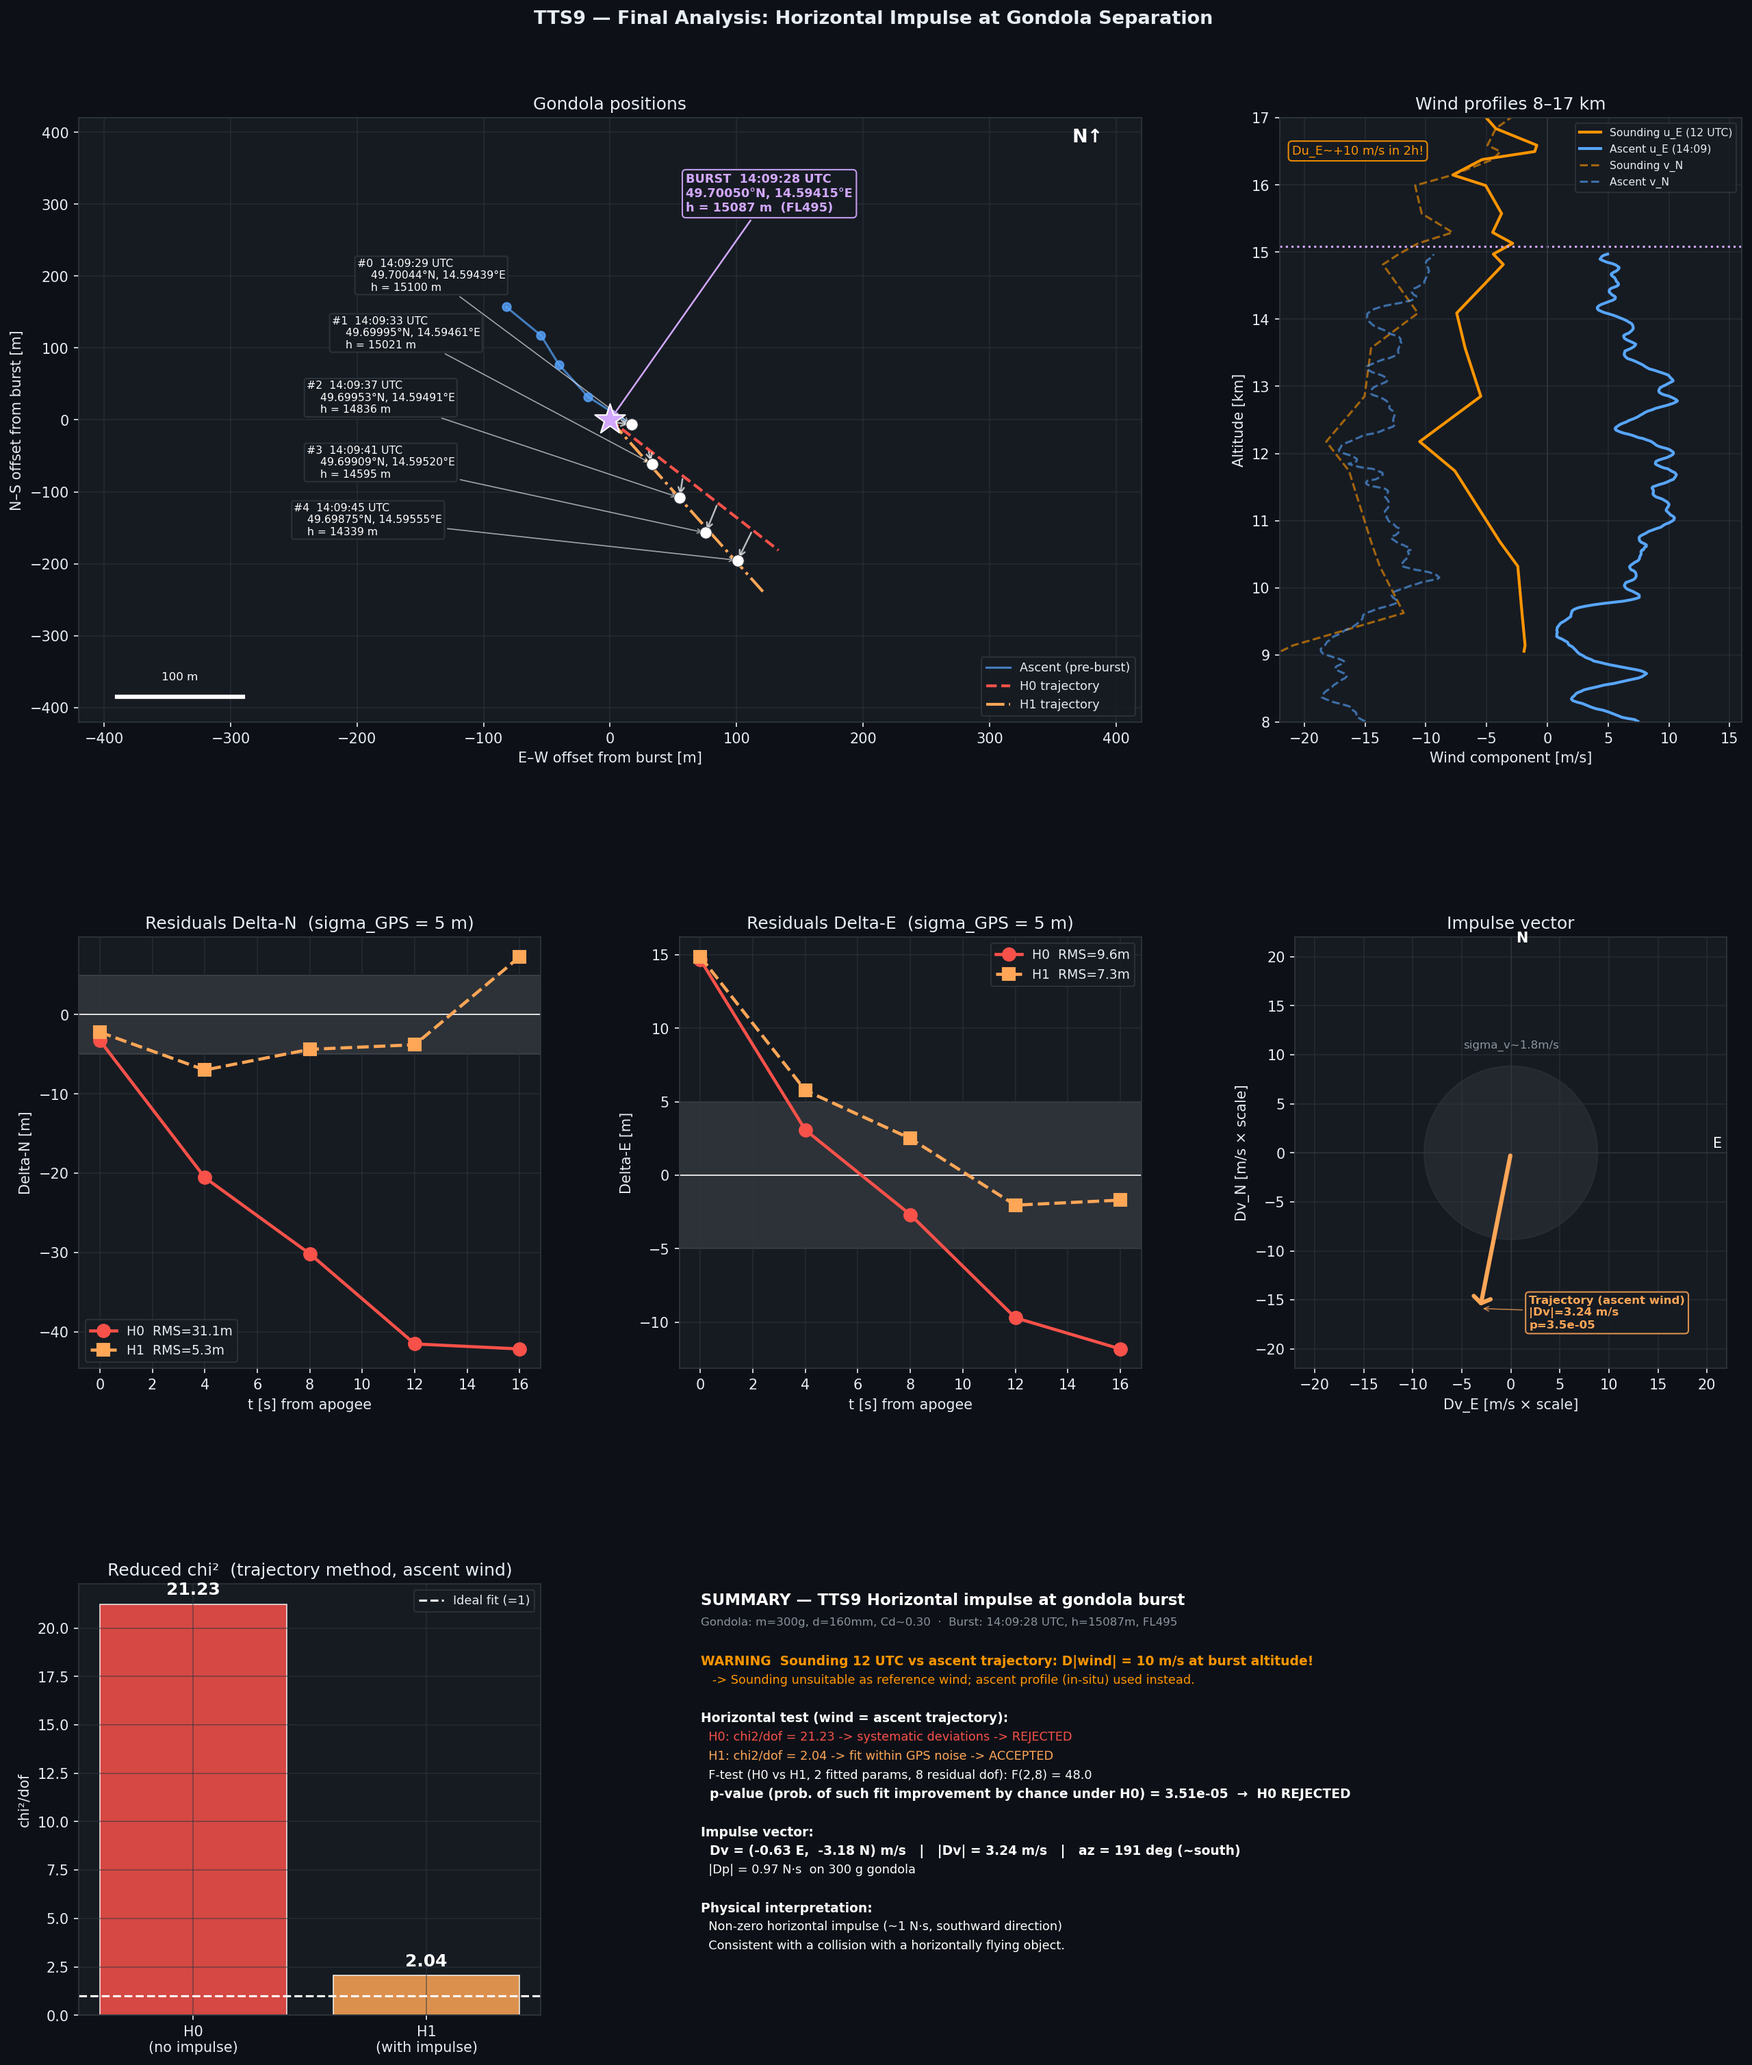
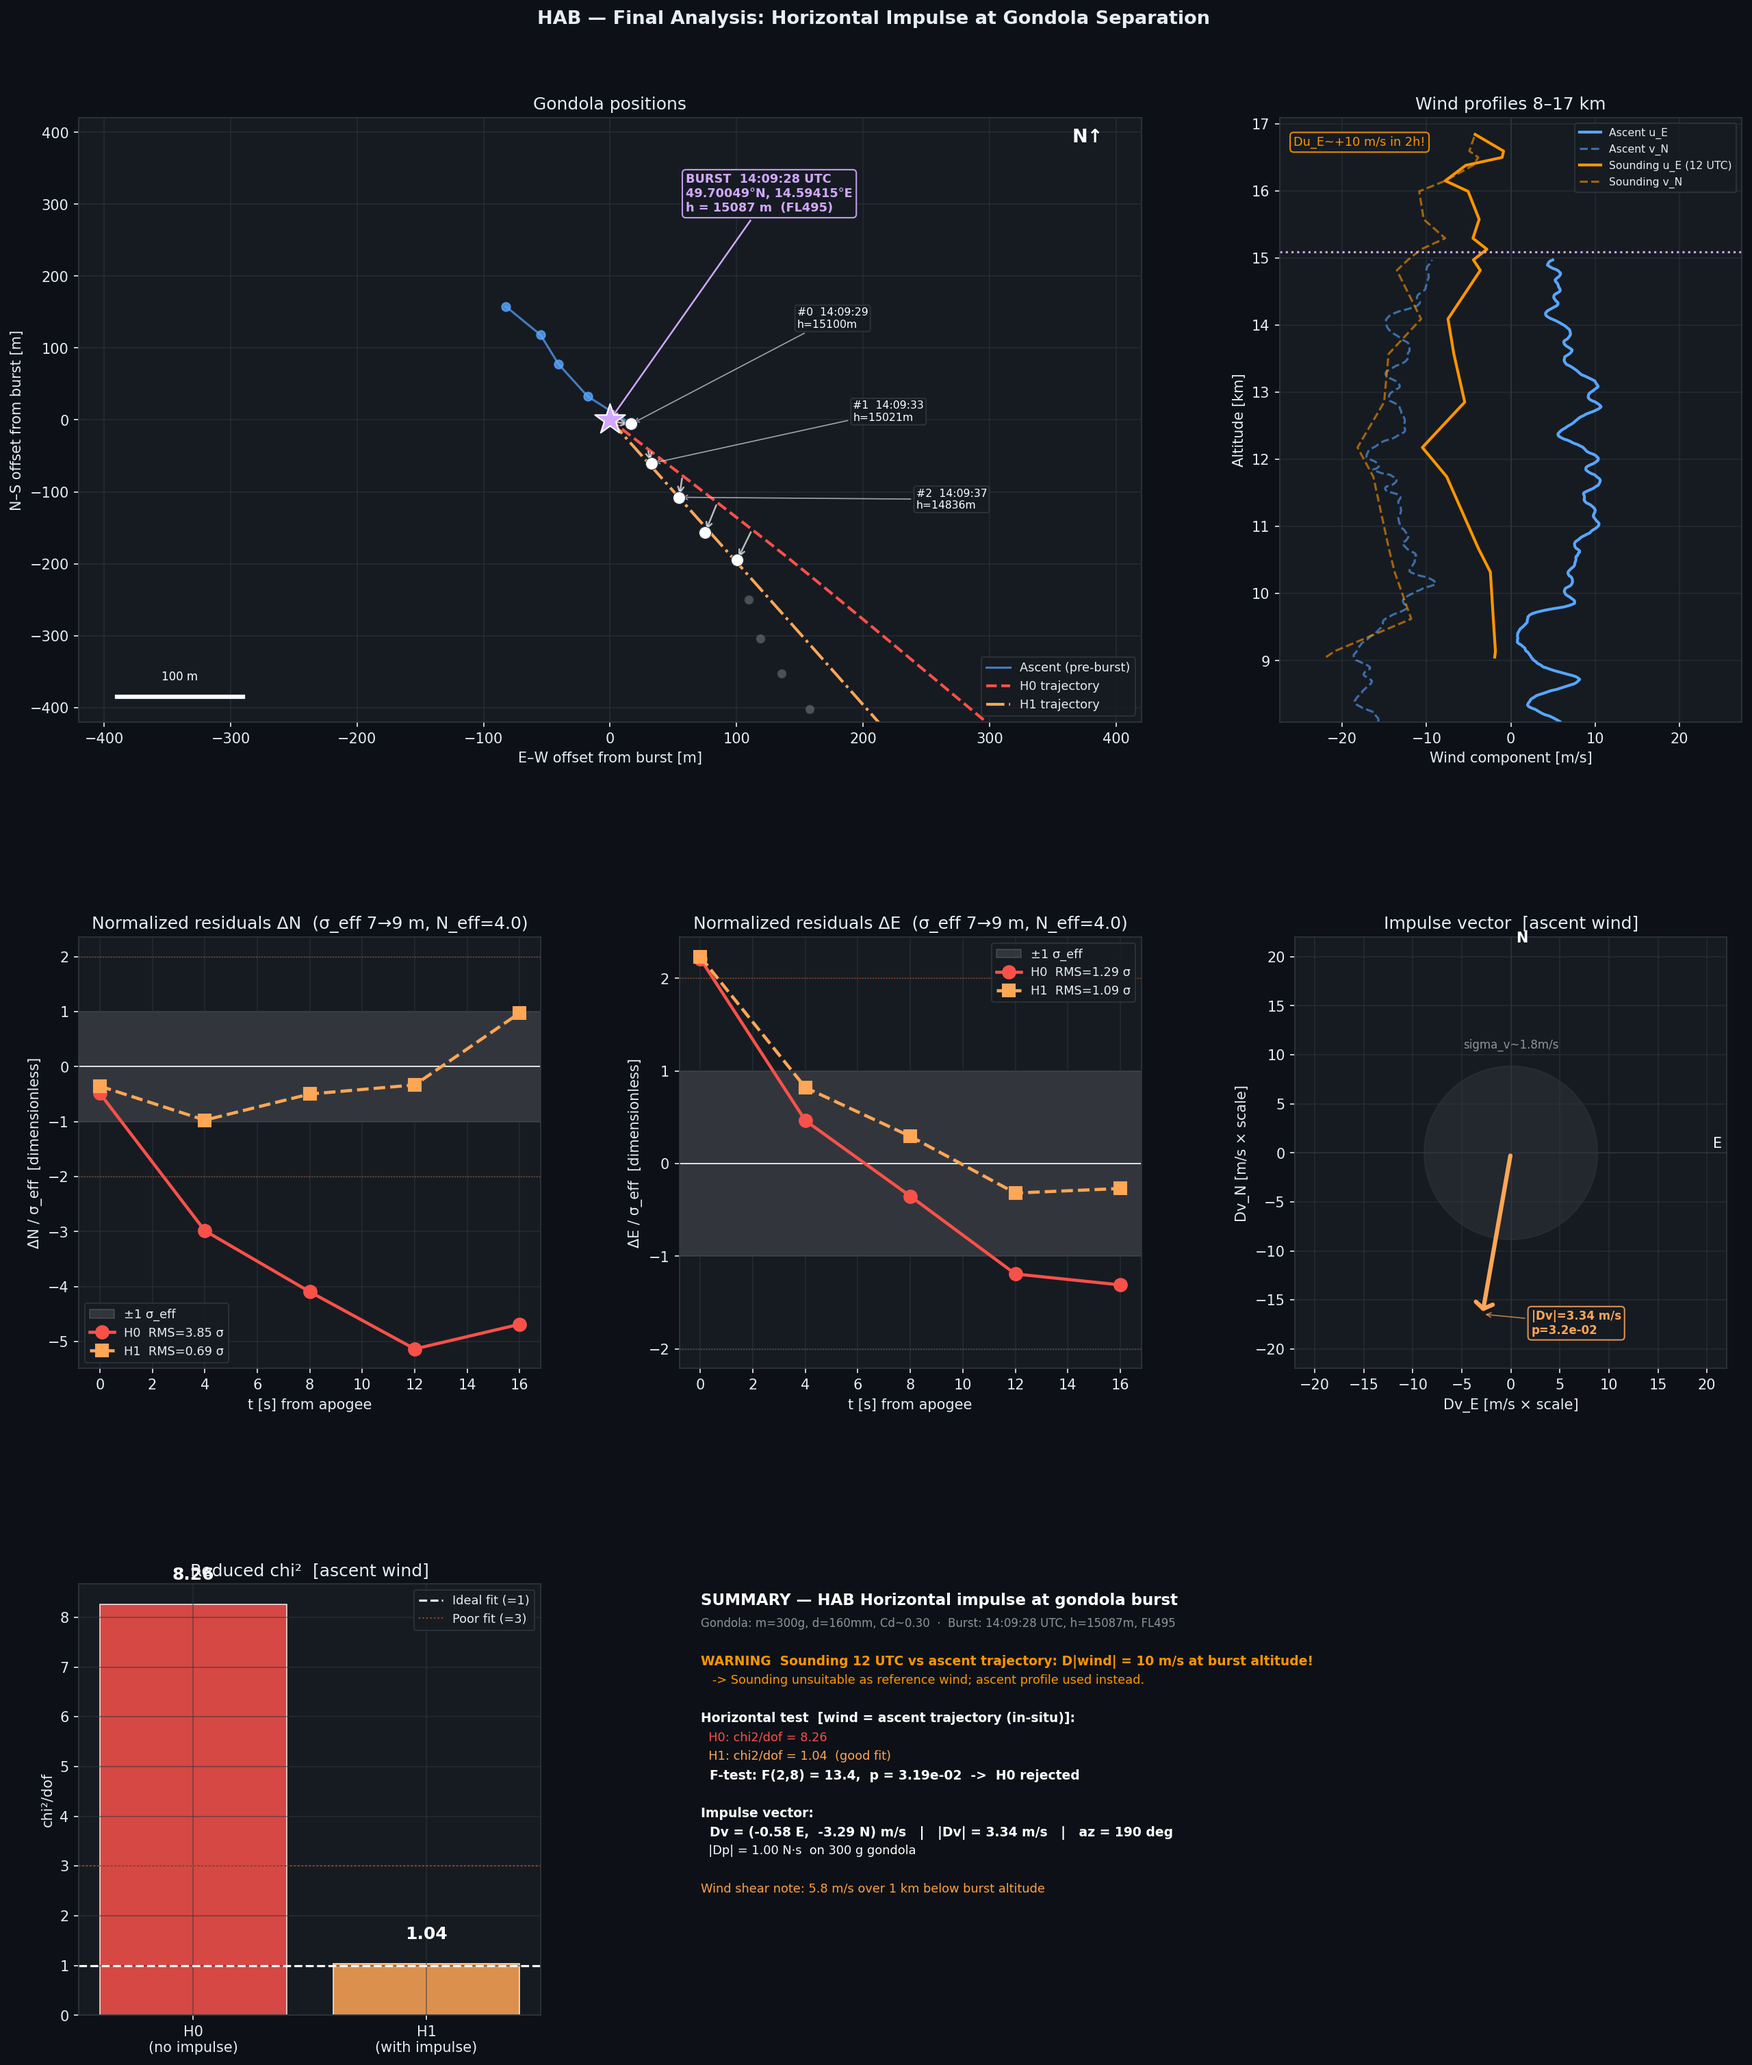
Improved analysis graphs.

diff --git a/hab_collision_analysis.py b/hab_collision_analysis.py
@@ -399,13 +399,20 @@ def make_wind_interpolators(h_asc_wind, u_asc_wind, v_asc_wind, SND, H_SEP):
 # 5  HORIZONTAL HYPOTHESIS TEST
 # ═══════════════════════════════════════════════════════════════════════════
 
-def simulate_horiz(dv_N, dv_E, burst, wind_fns, dt=0.02):
+def simulate_horiz(dv_N, dv_E, burst, wind_fns, dt=0.02, k_horiz=None):
+    """Simulate horizontal trajectory after burst.
+
+    k_horiz: horizontal drag coefficient [m²/kg].  Defaults to burst['K_VERT']
+             (vertical value) when None.  Pass a calibrated value to decouple
+             horizontal drag from the vertical fit.
+    """
     H_SEP    = burst['H_SEP']
     LAT_SEP  = burst['LAT_SEP']
     LON_SEP  = burst['LON_SEP']
     VH0_SEP  = burst['VH0_SEP']
     TS_OPT   = burst['TS_OPT']
     K_VERT   = burst['K_VERT']
+    K_H      = k_horiz if k_horiz is not None else K_VERT   # horizontal drag coeff
     U_SEP, V_SEP = wind_fns['U_SEP'], wind_fns['V_SEP']
     u_f, v_f     = wind_fns['u_asc_f'], wind_fns['v_asc_f']
 
@@ -423,12 +430,7 @@ def simulate_horiz(dv_N, dv_E, burst, wind_fns, dt=0.02):
         dur = u_g - uw; dvr = v_g - vw
         vrh = np.sqrt(dur ** 2 + dvr ** 2)
         if vrh > 0.001:
-            # Use the same fitted drag parameter for horizontal as for vertical.
-            # K_VERT encodes the full system (gondola + parachute if present), and
-            # a parachute canopy presents a similar cross-section horizontally.
-            # For a bare gondola K_VERT ≈ 0.5·Cd_sphere·A_sphere/M, so this is
-            # backward-compatible with the no-parachute case.
-            ad = K_VERT * rho * vrh ** 2
+            ad = K_H * rho * vrh ** 2
             u_g -= ad * (dur / vrh) * dt
             v_g -= ad * (dvr / vrh) * dt
         lat += v_g * dt / M_PER_DEG_LAT
@@ -615,6 +617,88 @@ def hypothesis_test(DESC, burst, wind_fns, T0, wind_shear_1km=0.0):
         gps_vs_wind.append((h_mid, u_gps, v_gps, u_asc, v_asc, delta))
         h_gps_w.append(h_mid); u_gps_w.append(u_gps); v_gps_w.append(v_gps)
 
+    # ── Horizontal K_VERT calibration from post-burst velocity relaxation ───────
+    # After burst the gondola retains its burst-point horizontal velocity and
+    # decelerates toward the local wind with time constant
+    #   τ_h = M / (K_VERT_horiz · ρ · v_ref)
+    # The vertical K_VERT (from the descent-rate fit) may differ from the
+    # horizontal K_VERT (parachute geometry is anisotropic).
+    #
+    # Method: compute |v_GPS(t) − v_wind(h(t))| for the first N_VCAL GPS
+    # intervals after burst (observed = descent GPS; reference = ascent wind
+    # profile at the same altitude).  Fit an exponential decay to obtain
+    # τ_h_horiz, then derive K_VERT_horiz.
+    #
+    # Quality gate: accept the calibrated value only when the fit residuals
+    # are dominated by the velocity signal (not wind-model drift), i.e. when
+    # the fitted v0 exceeds 2×σ_v (the velocity noise floor).
+    from scipy.optimize import curve_fit as _curve_fit
+
+    N_VCAL = 12   # velocity intervals to use for calibration
+    _t_v, _d_v, _s_v = [], [], []
+    for _ki in range(1, min(N_VCAL + 1, len(desc_post_all))):
+        _dt_k = float(desc_post_all['t_sec'].values[_ki]
+                      - desc_post_all['t_sec'].values[_ki - 1])
+        if _dt_k <= 0:
+            continue
+        _t_mid = (float(desc_post_all['t_sec'].values[_ki])
+                  + float(desc_post_all['t_sec'].values[_ki - 1])) / 2.0 \
+                 - T0 - float(burst['TS_OPT'])
+        if _t_mid <= 0:
+            continue
+        _h_m = float((desc_post_all['alt[m]'].values[_ki]
+                      + desc_post_all['alt[m]'].values[_ki - 1]) / 2)
+        _ug  = float((desc_post_all['lon[deg]'].values[_ki]
+                      - desc_post_all['lon[deg]'].values[_ki - 1])
+                     / _dt_k * M_PER_DEG_LON)
+        _vg  = float((desc_post_all['lat[deg]'].values[_ki]
+                      - desc_post_all['lat[deg]'].values[_ki - 1])
+                     / _dt_k * M_PER_DEG_LAT)
+        _uw  = float(u_f_asc(max(_h_m, 500)))
+        _vw  = float(v_f_asc(max(_h_m, 500)))
+        _d   = float(np.hypot(_ug - _uw, _vg - _vw))
+        # Velocity uncertainty: GPS position noise translated to velocity
+        # plus linear wind-model drift at this time.
+        _sv  = float(np.hypot(sigma_gps / _dt_k, shear_vel * max(_t_mid, 1.0)))
+        _t_v.append(_t_mid); _d_v.append(_d); _s_v.append(_sv)
+
+    K_VERT_horiz = burst['K_VERT']   # default: same as vertical
+    tau_h_horiz  = tau_h              # default: formula value
+    _vcal_note   = 'default (no calibration)'
+
+    if len(_t_v) >= 4:
+        try:
+            def _exp_v(t, v0, tau):
+                return v0 * np.exp(-t / tau)
+            _popt, _pcov = _curve_fit(
+                _exp_v, _t_v, _d_v,
+                p0=[float(np.max(_d_v)), tau_h],
+                sigma=_s_v, absolute_sigma=True,
+                bounds=([0.0, 2.0], [50.0, 600.0]),
+                maxfev=3000)
+            _v0_fit, _tau_fit = float(_popt[0]), float(_popt[1])
+            _tau_err = float(np.sqrt(max(_pcov[1, 1], 0.0)))
+            _v0_noise = float(np.median(_s_v))  # typical velocity noise floor
+            # Accept when: signal visible (v0 > 2×noise) AND τ well-constrained (<60% error)
+            if _v0_fit > 2.0 * _v0_noise and _tau_err / max(_tau_fit, 1) < 0.6:
+                tau_h_horiz  = _tau_fit
+                K_VERT_horiz = M_GON / max(tau_h_horiz * rho_sep * v_ref, 1e-9)
+                _vcal_note   = (f'CALIBRATED  τ_h_horiz={tau_h_horiz:.0f}s'
+                                f'  ±{_tau_err:.0f}s  v0={_v0_fit:.2f}m/s'
+                                f'  K_horiz={K_VERT_horiz:.5f}m²/kg')
+            else:
+                _vcal_note = (f'rejected  v0={_v0_fit:.2f}m/s (noise~{_v0_noise:.2f}m/s),'
+                              f' τ={_tau_fit:.0f}±{_tau_err:.0f}s — keeping formula')
+        except Exception as _exc:
+            _vcal_note = f'fit failed ({_exc}) — keeping formula'
+    else:
+        _vcal_note = 'too few velocity samples — keeping formula'
+
+    print(f"  Horiz K calibration (descent GPS vs ascent wind profile): {_vcal_note}")
+    if tau_h_horiz != tau_h:
+        print(f"    τ_h formula={tau_h:.0f}s → τ_h_horiz={tau_h_horiz:.0f}s"
+              f"  K_vert={burst['K_VERT']:.5f} → K_horiz={K_VERT_horiz:.5f} m²/kg")
+
     # Use ascent profile for the simulation (GPS velocity ≠ actual wind at
     # stratospheric altitudes — at 32 km the parachute equilibration time is
     # τ = M/(K_VERT·ρ·v_rel) ≈ 15–50 s, so GPS velocity is a time-lagged
@@ -624,7 +708,7 @@ def hypothesis_test(DESC, burst, wind_fns, T0, wind_shear_1km=0.0):
 
     def _run_h0h1(wf):
         """Run H0 and H1 with heteroscedastic per-point uncertainty sigma_eff."""
-        ts0_, la0_, lo0_, _ = simulate_horiz(0., 0., burst, wf)
+        ts0_, la0_, lo0_, _ = simulate_horiz(0., 0., burst, wf, k_horiz=K_VERT_horiz)
         la0e = np.interp(td_h, ts0_, la0_)
         lo0e = np.interp(td_h, ts0_, lo0_)
         rl0  = (lm_h - la0e) * M_PER_DEG_LAT / sigma_eff
@@ -633,7 +717,8 @@ def hypothesis_test(DESC, burst, wind_fns, T0, wind_shear_1km=0.0):
 
         def _res1(params):
             dv_n, dv_e = params
-            ts_, la_, lo_, _ = simulate_horiz(dv_n, dv_e, burst, wf)
+            ts_, la_, lo_, _ = simulate_horiz(dv_n, dv_e, burst, wf,
+                                              k_horiz=K_VERT_horiz)
             lp = np.interp(td_h, ts_, la_); op = np.interp(td_h, ts_, lo_)
             return np.concatenate([(lm_h - lp) * M_PER_DEG_LAT / sigma_eff,
                                    (om_h - op) * M_PER_DEG_LON / sigma_eff])
@@ -643,7 +728,8 @@ def hypothesis_test(DESC, burst, wind_fns, T0, wind_shear_1km=0.0):
         dv_n, dv_e = r1.x
         c1 = np.sum(r1.fun ** 2)
 
-        ts1_, la1_, lo1_, _ = simulate_horiz(dv_n, dv_e, burst, wf)
+        ts1_, la1_, lo1_, _ = simulate_horiz(dv_n, dv_e, burst, wf,
+                                             k_horiz=K_VERT_horiz)
         la1e = np.interp(td_h, ts1_, la1_)
         lo1e = np.interp(td_h, ts1_, lo1_)
         rl1_s = (lm_h - la1e) * M_PER_DEG_LAT / sigma_eff
